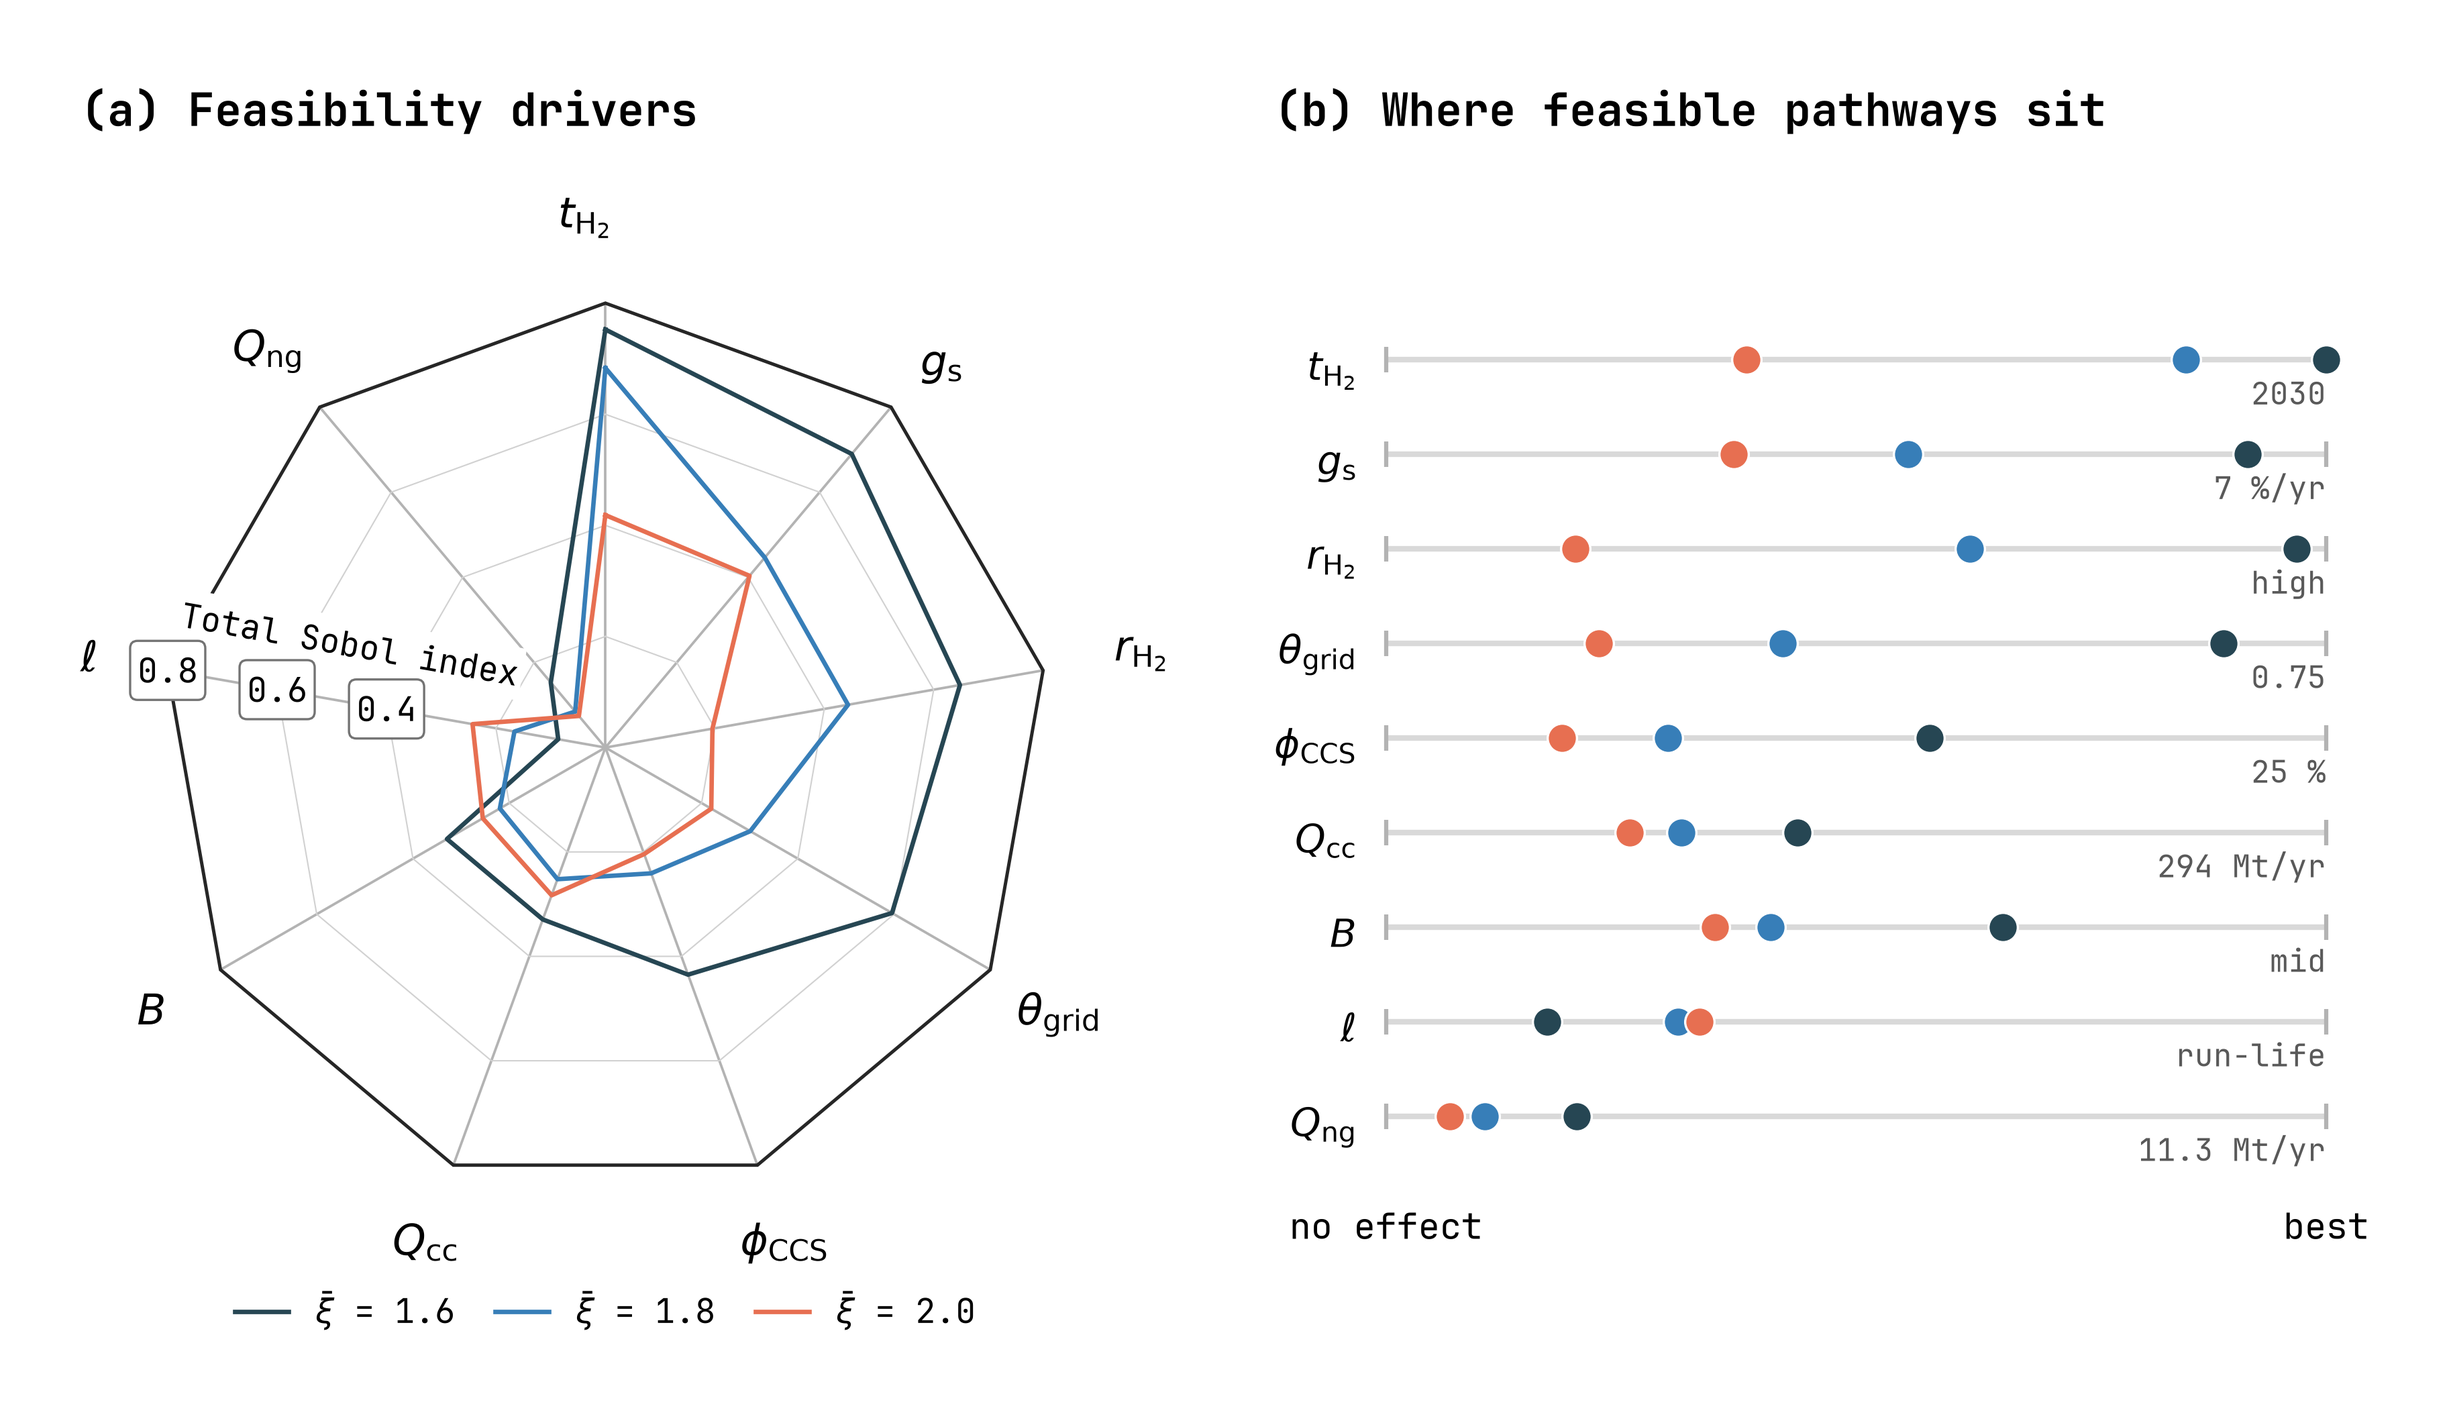
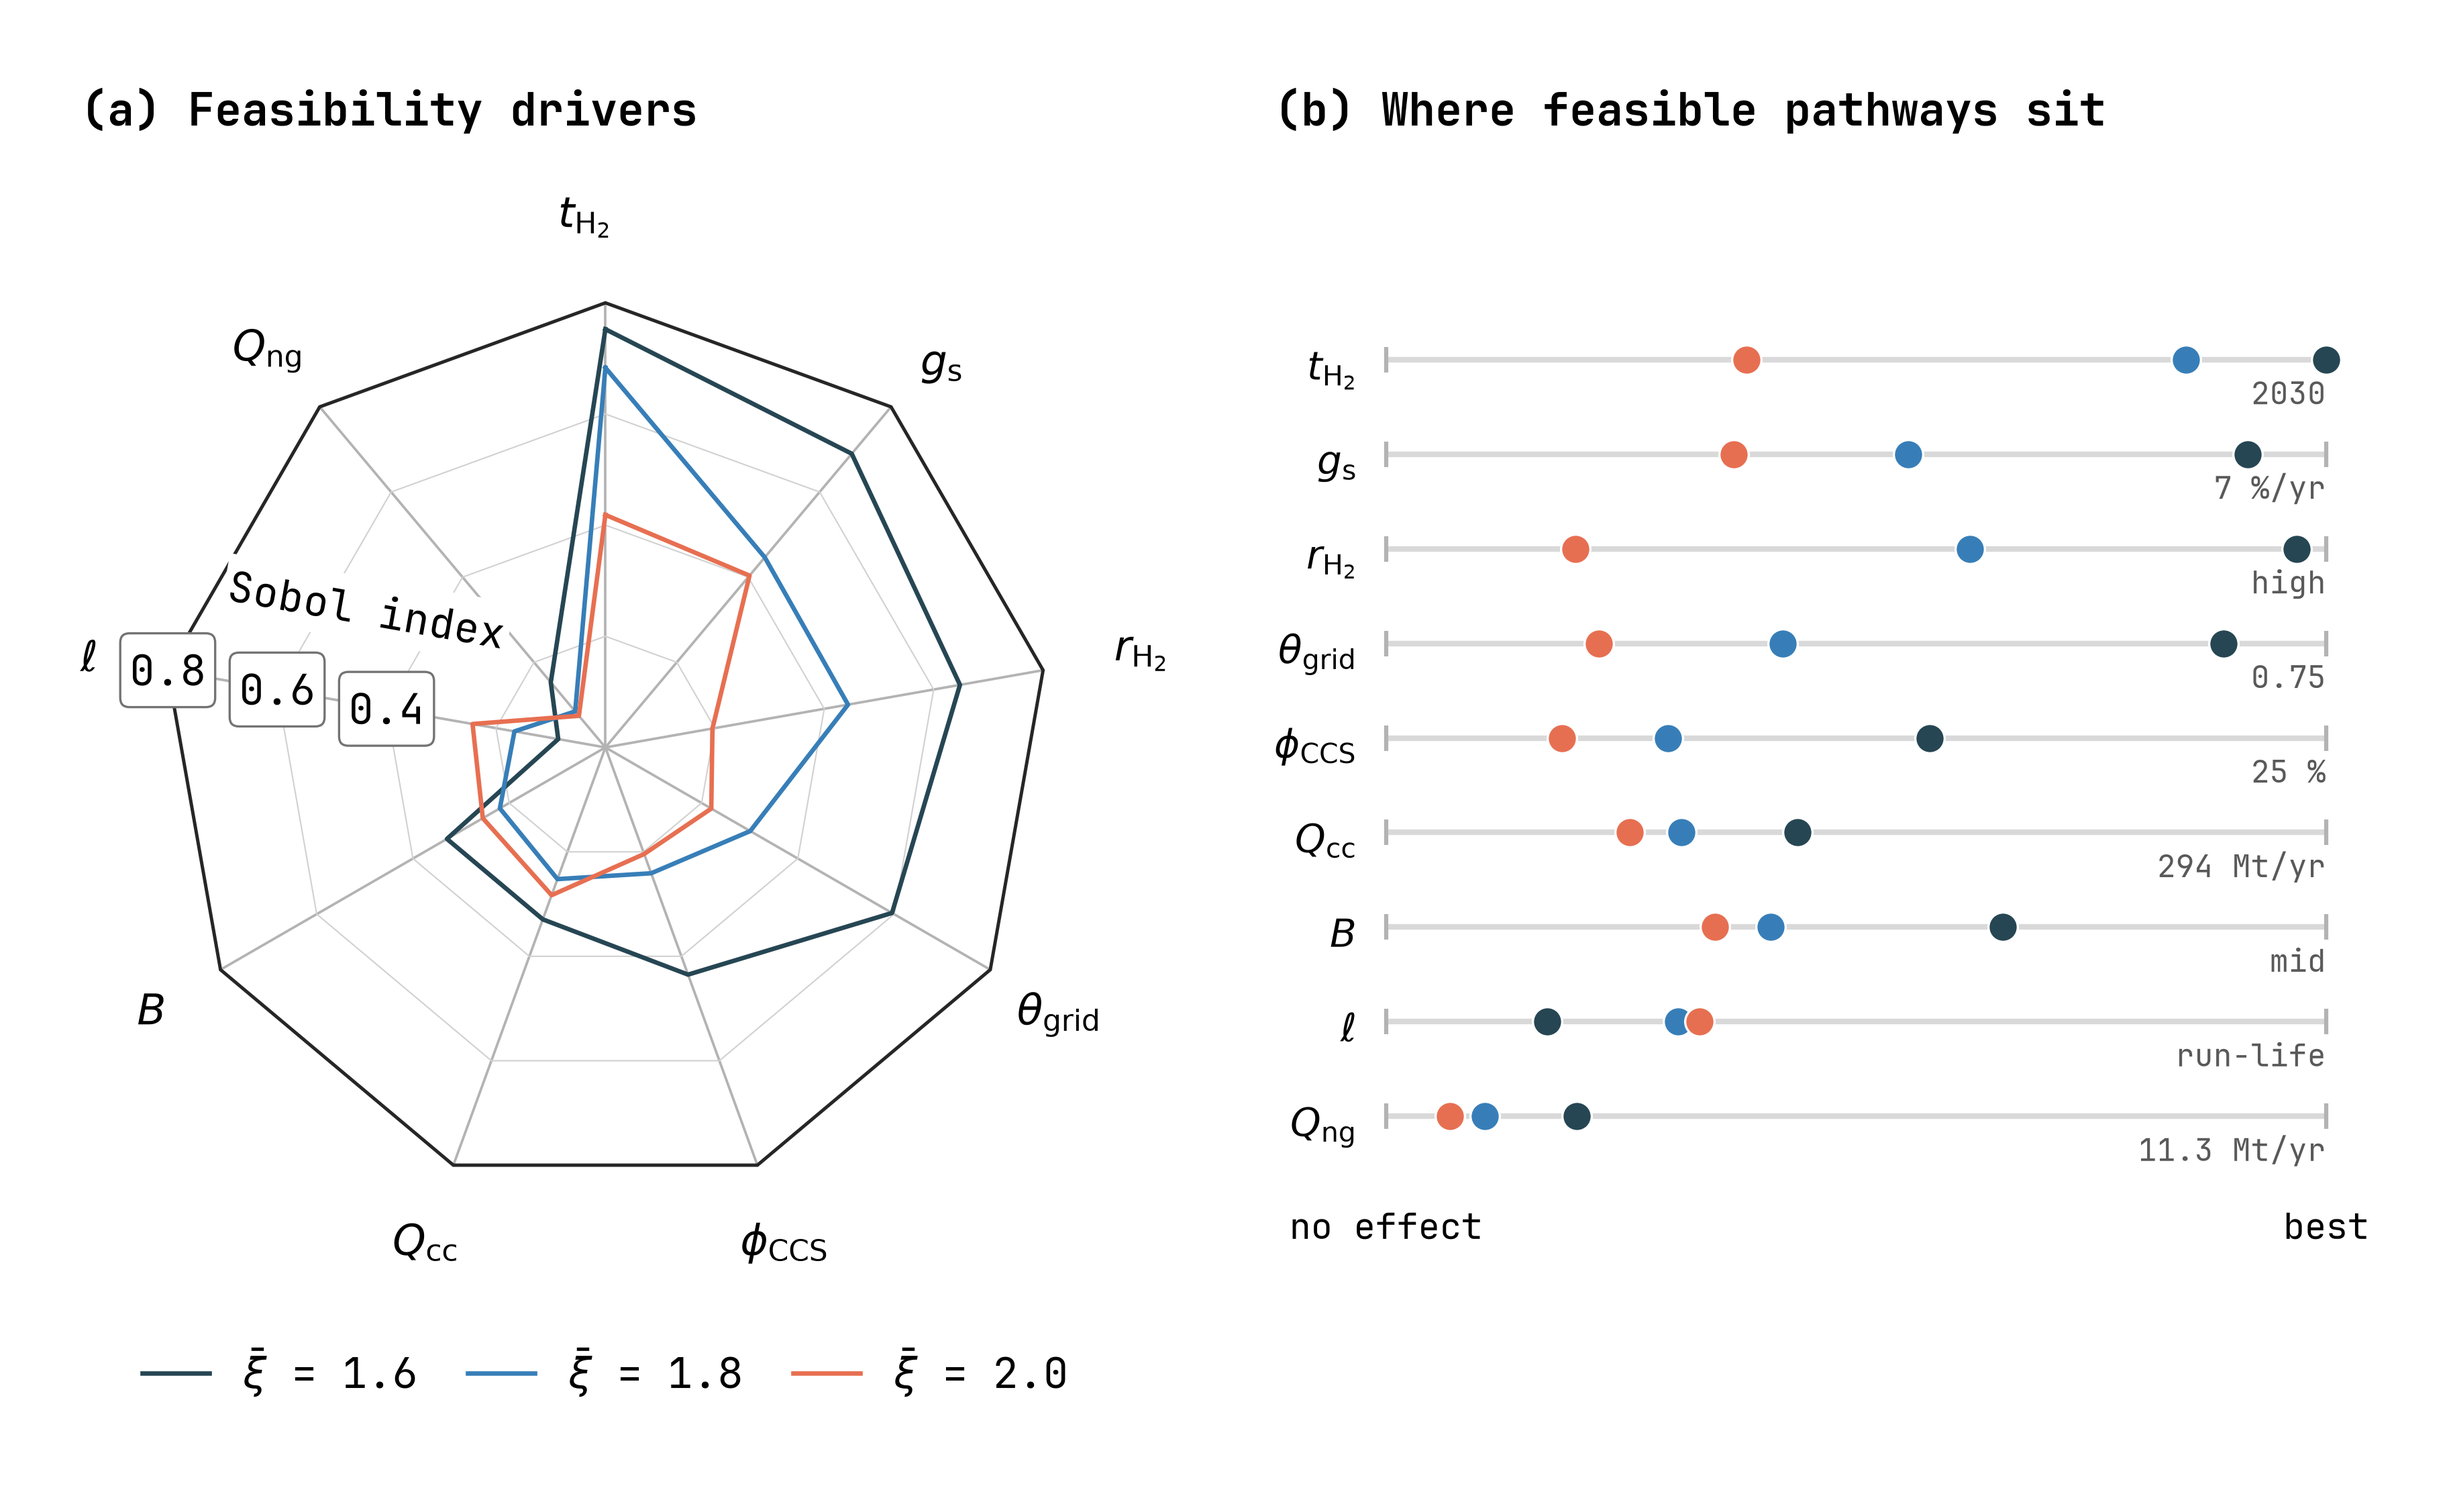
Radar figure: uniform 15 pt labels, units past tracks, taller panel (b)
Panel (b) footnote aligns with the radar legend; 'Sobol index' caption;
handoff updated with the overnight Monte Carlo plan.

diff --git a/docs/handoff.md b/docs/handoff.md
@@ -1,22 +1,27 @@
 # Handoff
 
-- **Current task:** the paper figures are rebuilt in `notebooks/plots.ipynb`. It reads repo data and writes 300 dpi PNGs to `figs/`.
-  - Fig. 1 `current-route`, Fig. 3 `feasibility-grid`, Fig. 4 `feasibility-bias`, Fig. 5 `import-tradeoff` (log-log), Fig. 6 `uncertainty-risk`, Fig. 7 `cost-violin`, Fig. 8 `regret-ladder`.
-  - The factorial is now 110,592 runs: coal and NG have 4 levels each, the two intermediate levels being 1/3 and 2/3 blends of the bracketing trajectories. It also records cumulative imports and bills.
-  - The Monte Carlo stays on the bracketing coal/NG regimes; the violin builder is pinned to them.
-- **Next step:** all of this is pushed (`bf5bc9d`). Next, the user updates the paper text and `\includegraphics` names (see below). Fetch before any new work: another claude.ai session (`01GVt5c2…`) also pushes to `fix-wave-01`.
-  - Root `figs/` is matched by an old repo-wide `figs/` ignore rule. The paper PNGs are tracked with `git add -f`, so add any new ones the same way.
+- **Current task:** set up and launch the **overnight Monte Carlo**: all 14,107 feasible factorial runs × 50 shared draws (seed 20260824) = 705,350 solves, about 2.5–3 h at roughly 75/s on 12 workers.
+- **Next step:**
+  1. Commit and push the pending radar-figure changes (`notebooks/plots.ipynb`, `figs/feasibility-bias*.png`; fetch first, because session `01GVt5c2…` also pushes to `fix-wave-01`; PNGs need `git add -f`).
+  2. Change `monte_carlo/run_montecarlo.py`:
+     - Map the `midhigh`/`midlow` coal and NG levels (`CCOAL_FILE`/`NG_FILE` only know abundant/scarce; the files are listed in `axes.py`).
+     - Append each solve to a CSV and add `--resume`.
+     - Write `mc_solves.parquet` instead of the xlsx.
+  3. Update the readers (`violin/run_violin.py` and the four `uncertainty/*/run_*.py`), and remove the bracketing-regime filter in `run_violin.py`'s `load_full_structural`.
+  4. Smoke-test a few cells, check that `--resume` works, then launch with the lease-renew loop plus automatic `--resume` retries (`run_yearly.sh` pattern: start AMPL every 15 min).
+  5. Afterwards, regenerate every Monte Carlo-derived figure (`uncertainty-risk`, `cost-violin-*`, possibly `regret-ladder`) and flag any paper numbers that go stale.
 - **Open decisions (the user's):**
-  - Keep or delete the alternates: `feasibility-bias-rank`, `import-dependence`, `import-tradeoff-linear` (the log version was chosen for Fig. 5).
-  - Regret bars: keep rounded or revert to square?
-  - Borders on the risk (d) box plots?
-- **Paper (`tex/steel-v3.tex`, untracked live draft):** the user edits the text; Claude only flags stale numbers.
-  - 66 `% CHECK…` comments mark stale numbers and errors. A few predate the 110k run: overall feasibility is now 0.35 / 6.62 / 31.3 %, there are 110,592 runs, and coal/NG have 4×4 levels.
-  - `\graphicspath{{../figs/}}` was added; the `\includegraphics` names still need changing to the new PNG names.
-  - Methods needs one sentence on the blended supply levels, plus the parameter-symbol column ($t_{H_2}$, $g_s$, …) in the factorial table.
+  - Which violin figure goes in the paper: `cost-violin-ef1.8`/`ef2.0` (ramp rows) or `cost-violin-by-ef` (EF rows).
+  - Delete the old `cost-violin.png` and the accidental `cost-violin-ef1.6.png`? Cell 22 loops over every EF in `violin.xlsx`.
+  - Keep or delete the alternates (`feasibility-bias-rank`, `import-dependence`, `import-tradeoff-linear`); rounded regret bars; borders on the risk (d) boxes.
+- **Paper (`tex/steel-v3.tex`, untracked; the user edits the text, Claude only flags stale numbers):**
+  - Factorial table rewritten in chat (symbol, units, levels, description; 36,864 scenarios per target, 110,592 runs).
+  - B = 10 Mt/yr confirmed infeasible: the most favourable scenario is infeasible, so all others are too.
+  - Build-rate citation: Lok Sabha Unstarred Q. 1426 (29.07.2025). The record is +20.8 Mt in FY2024-25; the 2013–25 average is 8.9 Mt/yr.
+  - Still stale: violin caption at line 335, `% CHECK` at line 358, `\includegraphics` names.
 - **Flags:**
-  - Python: `~/miniconda3/bin/python`.
-  - The AMPL short-term lease lapses mid-run. For long sweeps, use the renew loop plus retry in the scratchpad (`renew_lease.sh`, `run_110k.sh`): start AMPL every 15 min, re-solve ERROR rows with `--resume`.
-  - `structural/axes/ng_high.mod` stays untracked on purpose (it's the rejected what-if); `mc-oldprices-local` is stale.
-  - Still open from earlier: the audit reviewer-proofing plan (blind citation check first). See `docs/audit/HANDOFF.md`.
+  - Feasible: 14,107 of 110,592 runs, or 11,537 of 36,864 unique combinations (the sets nest by EF).
+  - No nbconvert: render by `exec()`-ing the cells after registering JetBrains Mono from `~/.local/share/fonts`.
+  - `yearly.parquet`, `violin.xlsx` and `mc_solves.*` stay local. `structural/axes/ng_high.mod` stays untracked on purpose.
+  - Audit reviewer-proofing plan still open (`docs/audit/HANDOFF.md`).
 - Full history: `.remember/recent.md`, `.remember/archive.md`.
